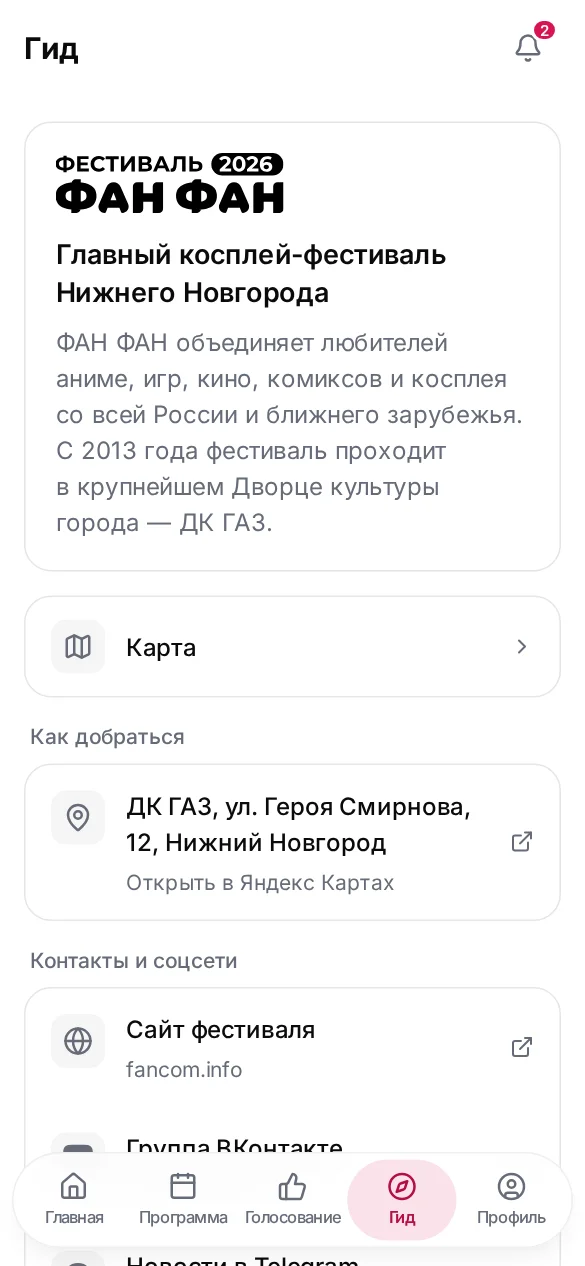
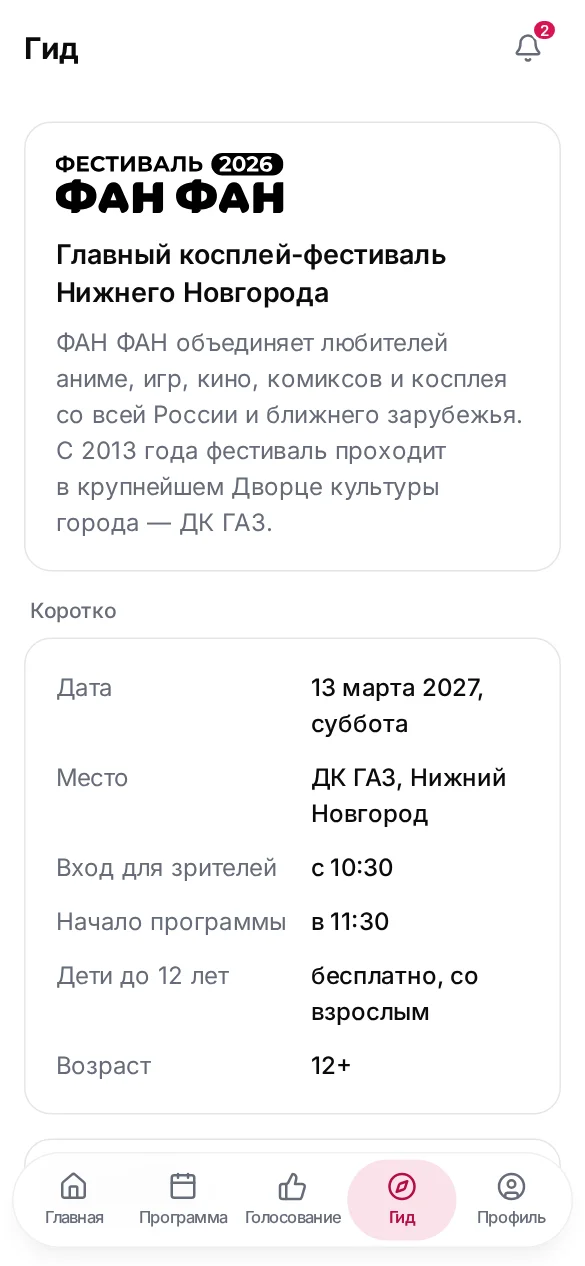
feat(frontend): add visitor facts, features and entry notes to the guide
Date, venue, doors, start, kids and age; what's on site; ticket and rules
links; entry/belongings notes from the regulations; MAX and e-mail contacts.
Source: fancom.info pages saved by the user.

Claude-Session: https://claude.ai/code/session_013WEKKxHg94MidUXz5FmTQt

diff --git a/frontend/src/routes/(app)/guide/+page.svelte b/frontend/src/routes/(app)/guide/+page.svelte
@@ -1,7 +1,16 @@
 <script lang="ts">
 	import type { Component } from 'svelte';
 
-	import { ExternalLink, Globe, Map as MapIcon, MapPin } from '@lucide/svelte';
+	import {
+		ExternalLink,
+		Globe,
+		Mail,
+		Map as MapIcon,
+		MapPin,
+		MessageCircle,
+		ScrollText,
+		Ticket
+	} from '@lucide/svelte';
 	import IconTelegram from '~icons/simple-icons/telegram';
 	import IconVk from '~icons/simple-icons/vk';
 
@@ -23,6 +32,29 @@
 		icon: Component;
 	}
 
+	const facts = [
+		{ label: m.guide_fact_date, value: m.guide_fact_date_value },
+		{ label: m.guide_fact_place, value: m.guide_fact_place_value },
+		{ label: m.guide_fact_doors, value: m.guide_fact_doors_value },
+		{ label: m.guide_fact_start, value: m.guide_fact_start_value },
+		{ label: m.guide_fact_kids, value: m.guide_fact_kids_value },
+		{ label: m.guide_fact_age, value: m.guide_fact_age_value }
+	];
+
+	const features = [
+		{ title: m.guide_feature_stage, description: m.guide_feature_stage_description },
+		{ title: m.guide_feature_fair, description: m.guide_feature_fair_description },
+		{ title: m.guide_feature_authors, description: m.guide_feature_authors_description },
+		{ title: m.guide_feature_games, description: m.guide_feature_games_description },
+		{ title: m.guide_feature_photo, description: m.guide_feature_photo_description },
+		{ title: m.guide_feature_contests, description: m.guide_feature_contests_description }
+	];
+
+	const notes = [
+		{ title: m.guide_note_entry, description: m.guide_note_entry_description },
+		{ title: m.guide_note_belongings, description: m.guide_note_belongings_description }
+	];
+
 	const contacts: ContactLink[] = [
 		{ href: 'https://fancom.info/', label: m.guide_website, hint: 'fancom.info', icon: Globe },
 		{ href: 'https://vk.com/ffest_nn', label: m.guide_vk, hint: 'vk.com/ffest_nn', icon: IconVk },
@@ -31,6 +63,18 @@
 			label: m.guide_telegram,
 			hint: 't.me/fanfan_fest_news',
 			icon: IconTelegram
+		},
+		{
+			href: 'https://max.ru/ffest_nn',
+			label: m.guide_max,
+			hint: 'max.ru/ffest_nn',
+			icon: MessageCircle
+		},
+		{
+			href: 'mailto:orgcom.fan@mail.ru',
+			label: m.guide_email,
+			hint: 'orgcom.fan@mail.ru',
+			icon: Mail
 		}
 	];
 </script>
@@ -74,9 +118,73 @@
 		<p class="mt-2 text-muted-foreground">{m.guide_about()}</p>
 	</section>
 
+	<section aria-labelledby="guide-facts" class="flex flex-col gap-2">
+		<h2 id="guide-facts" class="px-1 text-sm font-medium text-muted-foreground">
+			{m.guide_facts_heading()}
+		</h2>
+		<dl class="grid grid-cols-[auto_1fr] gap-x-4 gap-y-3 rounded-2xl border bg-card p-5 sm:p-6">
+			{#each facts as fact (fact.value)}
+				<dt class="text-muted-foreground">{fact.label()}</dt>
+				<dd class="font-medium">{fact.value()}</dd>
+			{/each}
+		</dl>
+	</section>
+
 	<MenuGroup>
 		<MenuLink href="guide/map" label={m.nav_map()} icon={MapIcon} />
 	</MenuGroup>
+
+	<section aria-labelledby="guide-features" class="flex flex-col gap-2">
+		<h2 id="guide-features" class="px-1 text-sm font-medium text-muted-foreground">
+			{m.guide_features_heading()}
+		</h2>
+		<MenuGroup>
+			{#each features as feature (feature.title)}
+				<Item.Root class="rounded-none">
+					<Item.Content>
+						<Item.Title class="text-base">{feature.title()}</Item.Title>
+						<Item.Description>{feature.description()}</Item.Description>
+					</Item.Content>
+				</Item.Root>
+			{/each}
+		</MenuGroup>
+	</section>
+
+	<section aria-labelledby="guide-visit" class="flex flex-col gap-2">
+		<h2 id="guide-visit" class="px-1 text-sm font-medium text-muted-foreground">
+			{m.guide_visit_heading()}
+		</h2>
+		<MenuGroup>
+			{@render externalRow(
+				'https://fancom.info/pages/Tickets',
+				Ticket,
+				m.guide_buy_ticket(),
+				'fancom.info/pages/Tickets'
+			)}
+			{@render externalRow(
+				'https://fancom.info/pages/rules',
+				ScrollText,
+				m.guide_rules(),
+				'fancom.info/pages/rules'
+			)}
+		</MenuGroup>
+	</section>
+
+	<section aria-labelledby="guide-notes" class="flex flex-col gap-2">
+		<h2 id="guide-notes" class="px-1 text-sm font-medium text-muted-foreground">
+			{m.guide_good_to_know_heading()}
+		</h2>
+		<MenuGroup>
+			{#each notes as note (note.title)}
+				<Item.Root class="rounded-none">
+					<Item.Content>
+						<Item.Title class="text-base">{note.title()}</Item.Title>
+						<Item.Description>{note.description()}</Item.Description>
+					</Item.Content>
+				</Item.Root>
+			{/each}
+		</MenuGroup>
+	</section>
 
 	<section aria-labelledby="guide-directions" class="flex flex-col gap-2">
 		<h2 id="guide-directions" class="px-1 text-sm font-medium text-muted-foreground">
